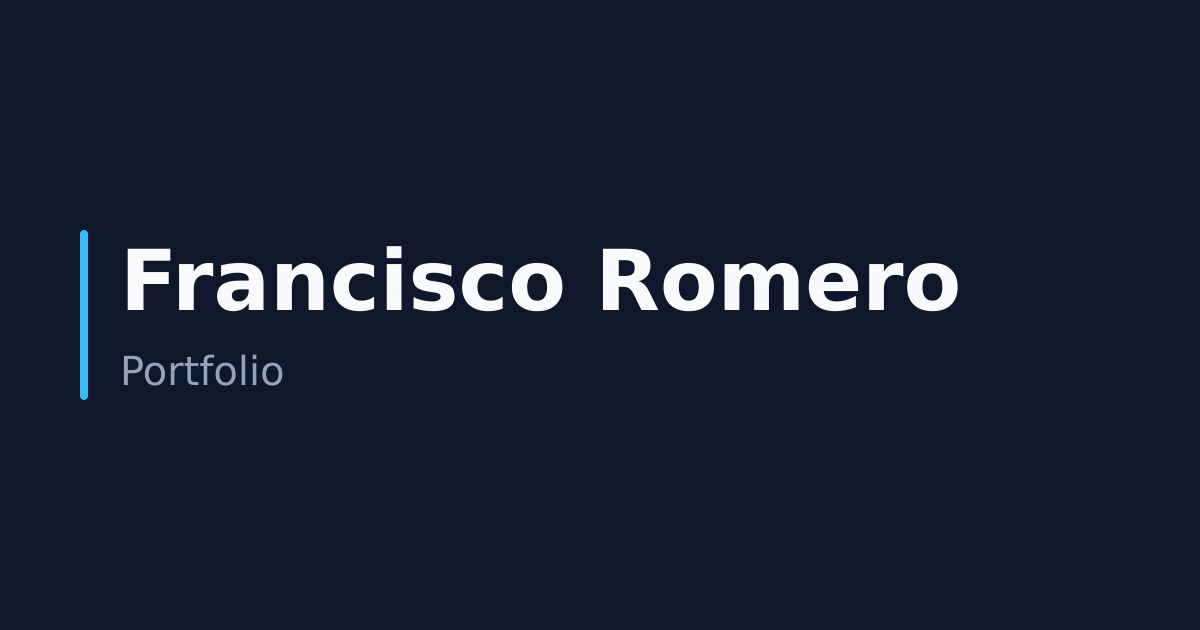
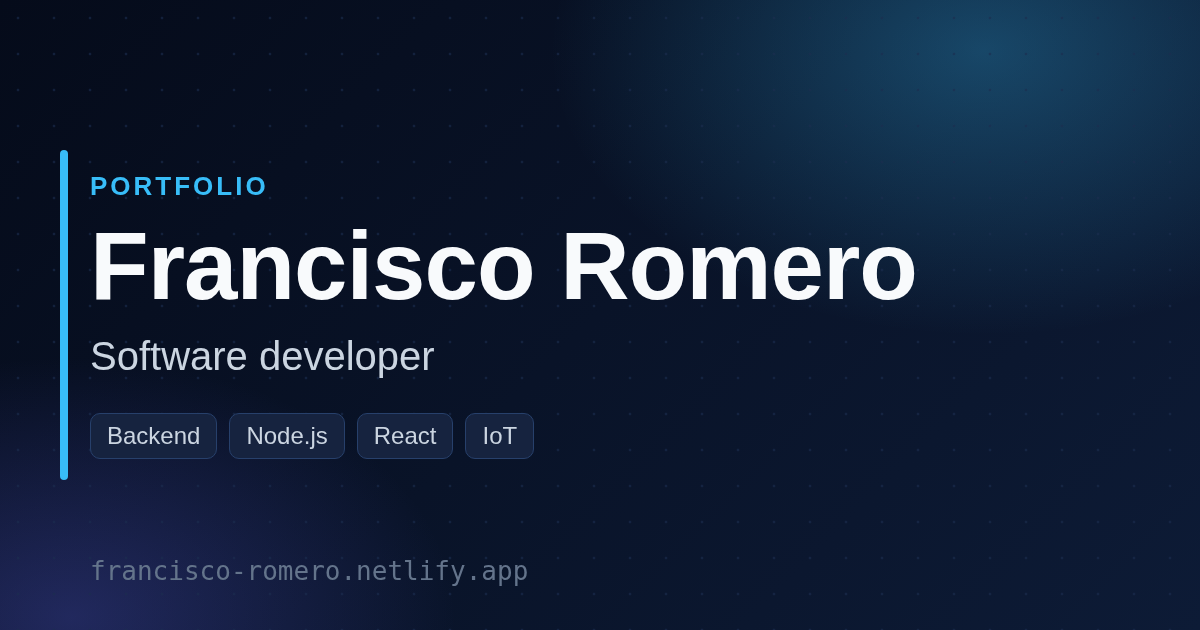
feat: polish content, SEO and share image, and set the internship start date
Add a real share preview image, a fuller meta description, quick facts, a header CV button that stays hidden until a CV exists, and an updated README.

diff --git a/src/data/profile.ts b/src/data/profile.ts
@@ -29,6 +29,13 @@ export interface TimelineItem {
 	description: string;
 }
 
+/** A quick fact shown in the About section. `href` turns the value into a link. */
+export interface Fact {
+	label: string;
+	value: string;
+	href?: string;
+}
+
 export interface StackGroup {
 	title: string;
 	items: string[];
@@ -38,6 +45,7 @@ interface LocalizedProfile {
 	role: string;
 	intro: string;
 	about: string[];
+	facts: Fact[];
 	stack: StackGroup[];
 	timeline: TimelineItem[];
 }
@@ -49,12 +57,14 @@ interface Profile {
 	contact: { email?: string; linkedin?: string; github?: string };
 }
 
+const profileLinkedin = 'https://www.linkedin.com/in/francisco-romero-b03906327';
+
 export const profile: Profile & Record<Lang, LocalizedProfile> = {
 	name: 'Francisco Romero',
 
 	photo,
 
-	/** Path to your CV PDF inside /public, e.g. '/cv-es.pdf'. Without a CV the button is hidden. */
+	/** Path to your CV PDF inside /public, e.g. '/cv-es.pdf'. Without a CV the hero shows a "coming soon" label and the header button is hidden. */
 	cv: {
 		es: undefined,
 		en: undefined,
@@ -62,7 +72,7 @@ export const profile: Profile & Record<Lang, LocalizedProfile> = {
 
 	contact: {
 		email: 'fran.romero051@gmail.com',
-		linkedin: 'https://www.linkedin.com/in/francisco-romero-b03906327',
+		linkedin: profileLinkedin,
 		github: 'https://github.com/romerof7',
 	},
 
@@ -71,13 +81,19 @@ export const profile: Profile & Record<Lang, LocalizedProfile> = {
 		intro:
 			'Estudiante del último año de Ingeniería en Computación. Desarrollo software con foco en backend y experiencia en frontend.',
 		about: [
-			'Estoy en el último año de Ingeniería en Computación y hace 8 meses trabajo como desarrollador de software. En el día a día me enfoco sobre todo en el backend, y también trabajo en el frontend cuando hace falta.',
+			'Estoy en el último año de Ingeniería en Computación y trabajo como desarrollador de software desde mayo de 2026. En el día a día me enfoco sobre todo en el backend, y también trabajo en el frontend cuando hace falta.',
 			'Me enfoco en aprender buenas prácticas de programación, como los principios SOLID y la arquitectura hexagonal, para escribir código mantenible. Busco seguir creciendo y aprender de equipos con más experiencia.',
 		],
+		facts: [
+			{ label: 'Ubicación', value: 'Rafaela, Santa Fe, Argentina' },
+			{ label: 'Edad', value: '22 años' },
+			{ label: 'Idiomas', value: 'Español (nativo) · Inglés (intermedio)' },
+			{ label: 'Certificaciones', value: 'Ver en LinkedIn', href: profileLinkedin },
+		],
 		stack: [
-			{ title: 'Lenguajes', items: ['TypeScript', 'Python'] },
-			{ title: 'Backend', items: ['Node.js', 'Prisma', 'Microservicios'] },
-			{ title: 'Frontend', items: ['React'] },
+			{ title: 'Lenguajes', items: ['TypeScript', 'Python', 'C/C++'] },
+			{ title: 'Backend', items: ['Node.js', 'NestJS', 'Prisma', 'Microservicios'] },
+			{ title: 'Frontend', items: ['React', 'Tailwind CSS'] },
 			{ title: 'Bases de datos', items: ['MySQL', 'Supabase'] },
 			{ title: 'Herramientas', items: ['Git', 'Docker', 'AWS'] },
 			{ title: 'IoT y hardware', items: ['Arduino', 'ESP32', 'LoRaWAN'] },
@@ -85,7 +101,7 @@ export const profile: Profile & Record<Lang, LocalizedProfile> = {
 		timeline: [
 			{
 				type: 'work',
-				period: '2026 – Actualidad',
+				period: 'Mayo de 2026 – Actualidad',
 				title: 'Desarrollador de software (pasantía)',
 				place: 'Vitolen · Área de Tecnología y Desarrollo',
 				description:
@@ -107,13 +123,19 @@ export const profile: Profile & Record<Lang, LocalizedProfile> = {
 		intro:
 			'Final-year Computer Engineering student. I build software with a focus on the backend and hands-on experience in the frontend.',
 		about: [
-			"I'm in the final year of my Computer Engineering degree and I've been working as a software developer for 8 months. Day to day I focus mostly on the backend, and I also work on the frontend when needed.",
+			"I'm in the final year of my Computer Engineering degree and I've been working as a software developer since May 2026. Day to day I focus mostly on the backend, and I also work on the frontend when needed.",
 			"I focus on learning good programming practices, such as SOLID principles and hexagonal architecture, to write maintainable code. I'm looking to keep growing and to learn from more experienced teams.",
 		],
+		facts: [
+			{ label: 'Location', value: 'Rafaela, Santa Fe, Argentina' },
+			{ label: 'Age', value: '22' },
+			{ label: 'Languages', value: 'Spanish (native) · English (intermediate)' },
+			{ label: 'Certifications', value: 'See on LinkedIn', href: profileLinkedin },
+		],
 		stack: [
-			{ title: 'Languages', items: ['TypeScript', 'Python'] },
-			{ title: 'Backend', items: ['Node.js', 'Prisma', 'Microservices'] },
-			{ title: 'Frontend', items: ['React'] },
+			{ title: 'Languages', items: ['TypeScript', 'Python', 'C/C++'] },
+			{ title: 'Backend', items: ['Node.js', 'NestJS', 'Prisma', 'Microservices'] },
+			{ title: 'Frontend', items: ['React', 'Tailwind CSS'] },
 			{ title: 'Databases', items: ['MySQL', 'Supabase'] },
 			{ title: 'Tools', items: ['Git', 'Docker', 'AWS'] },
 			{ title: 'IoT & Hardware', items: ['Arduino', 'ESP32', 'LoRaWAN'] },
@@ -121,7 +143,7 @@ export const profile: Profile & Record<Lang, LocalizedProfile> = {
 		timeline: [
 			{
 				type: 'work',
-				period: '2026 – Present',
+				period: 'May 2026 – Present',
 				title: 'Software developer (internship)',
 				place: 'Vitolen · Technology and Development department',
 				description:

diff --git a/src/i18n/ui.ts b/src/i18n/ui.ts
@@ -10,7 +10,8 @@ export const defaultLang: Lang = 'es';
 export const ui = {
 	es: {
 		'meta.title': 'Francisco Romero | Portfolio',
-		'meta.description': 'Portfolio de Francisco Romero',
+		'meta.description':
+			'Portfolio de Francisco Romero, desarrollador de software de Rafaela, Argentina: backend con Node.js, proyectos de IoT y trabajos de la facultad.',
 		'nav.label': 'Navegación principal',
 		'a11y.skip': 'Saltar al contenido',
 		'nav.about': 'Sobre mí',
@@ -57,7 +58,8 @@ export const ui = {
 	},
 	en: {
 		'meta.title': 'Francisco Romero | Portfolio',
-		'meta.description': "Francisco Romero's portfolio",
+		'meta.description':
+			'Portfolio of Francisco Romero, a software developer from Rafaela, Argentina: Node.js backend, IoT projects and university work.',
 		'nav.label': 'Main navigation',
 		'a11y.skip': 'Skip to content',
 		'nav.about': 'About',

diff --git a/README.md b/README.md
@@ -19,7 +19,7 @@ Live site: https://francisco-romero.netlify.app
 - Projects as Markdown files, with optimized covers, a list, a detail page, an image gallery and an optional demo video
 - SEO: Open Graph tags, canonical URLs, `hreflang`, sitemap, `robots.txt` and structured data
 - Bilingual 404 page
-- Accessibility: skip link, keyboard navigation, reduced-motion support and Lighthouse 100/100/100/100
+- Accessibility: skip link, keyboard navigation, accessible image gallery and reduced-motion support
 
 ## Running it
 
@@ -57,11 +57,11 @@ netlify.toml          # build, language redirect and security headers
 
 ## Editing the content
 
-**Personal data:** edit `src/data/profile.ts` (one block per language). Anything you leave empty or delete (experience, stack, contact methods) is simply not shown. While `isPlaceholder` is `true`, example labels are displayed; it is `false` now.
+**Personal data:** edit `src/data/profile.ts` (one block per language). Anything you leave empty or delete (experience, stack, contact methods) is simply not shown. While `isPlaceholder` is `true`, example labels are displayed (it is `false` now). Quick facts (location, age, languages, certifications) live in `facts`; the age is written by hand, so update it on your birthday.
 
 **Photo:** put a single file (jpg, png or webp) in `src/assets/profile/`. It is resized and optimized automatically. Without a photo, the initials are shown.
 
-**CV:** copy the PDFs to `public/` (for example `public/cv-es.pdf` and `public/cv-en.pdf`) and set their paths in `cv` inside `profile.ts`. Without a CV, the button is hidden.
+**CV:** not published yet. To enable it, copy the PDFs to `public/` (for example `public/cv-es.pdf` and `public/cv-en.pdf`) and set their paths in `cv` inside `profile.ts`. The download buttons (hero and header) then use the PDF of the current language. Until then the hero shows a "coming soon" label and the header button is hidden.
 
 **A new project:** copy one of the files in `src/content/projects/es/`, change the data and repeat in `en/` with the same file name. The file name is the project URL (`/es/projects/<name>/`), so always use English names with hyphens, e.g. `my-project.md`: URLs only change language in the `/es/` or `/en/` prefix.
 
